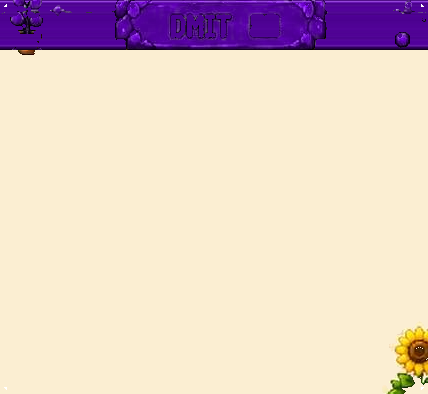
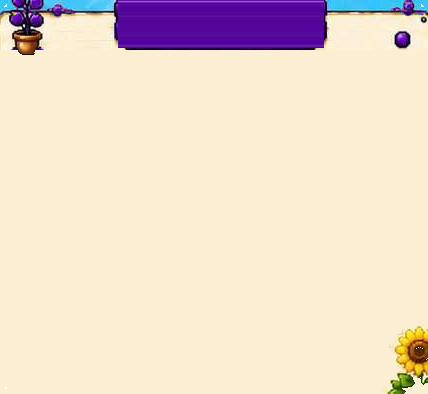
fix(v2): 擦掉参考稿横幅的标题深色投影 + 底图不再拉伸
用户反馈「dmit 阴影都有啊，原来的服务器名称被影响了」—— 定位到的真实原因：

1) 标题的**深色投影/描边没被擦**
   - 上一版掩膜只抓「亮色像素」（白字），而参考稿标题字带深色投影 →
     底板上留着 DMIT 的影子，叠上实时服务器名就成了重影
   - 量化证据：横幅内 lum<40 的像素仍有 2263 个（主绿峰在 lum 60-74，这些是尾巴）
   - 修法：横幅**中央主体**（两叶簇之间 x118..323）逐行重建 ——
     每行取「明显是底色绿」的像素中位色再把整行填成该色，标题与投影一起消失，
     且保留纵向明暗渐变；两端叶簇不动
   - 复核（ASCII 分布图）：中央主体的竖向暗结构全部消失，只剩两端叶簇边界
   - 渲染后复核：横幅上只有一个服务器名，无重影、无残留暗斑

2) 底图被纵向拉伸
   - 原用 background-size: 100% 100%，卡片实际高度 ≠ 底板 428:394 时会把叶片/盆栽/向日葵拉变形
   - 改为 100% auto + 顶对齐 + 兜底纸色（底板正文本就是平色纸，接缝不可见）

验证：底图确实渲染（全页向日葵黄 5197px、陶土棕 2629px，与 6 张卡各含装饰的量级一致）
测试 199/199

Changed region(s): [[0.0, 0.0, 0.6379, 0.1523], [0.6379, 0.0, 1.0, 0.1523]]

diff --git a/src/styles/v2/card.css b/src/styles/v2/card.css
@@ -45,9 +45,14 @@
      这是「完美复刻」的关键，CSS 只负责叠内容，不再手搓边框/叶边。
      底板 428×394，故锁同比例，避免拉伸导致叶片与装饰变形。 */
   aspect-ratio: 428 / 394;
+  /* 兜底纸色：底图按比例绘制，卡片比底板高时底部自然延续纸色（底板正文本就是平色纸，接缝不可见） */
+  background-color: var(--vk-ref-paper);
   background-image: var(--vk-panel-art);
   background-repeat: no-repeat;
-  background-size: 100% 100%;
+  /* 【关键】不写 100% 100%：那会在卡片实际高度 ≠ 底板比例时把底图**纵向拉伸**，
+     叶片与盆栽/向日葵随之变形。100% auto + 顶对齐 = 永不拉伸。 */
+  background-size: 100% auto;
+  background-position: top center;
   border: 1px solid var(--vk-panel-border);
   border-radius: var(--vk-panel-radius);
   /* 像素风投影：硬位移不用 blur */
